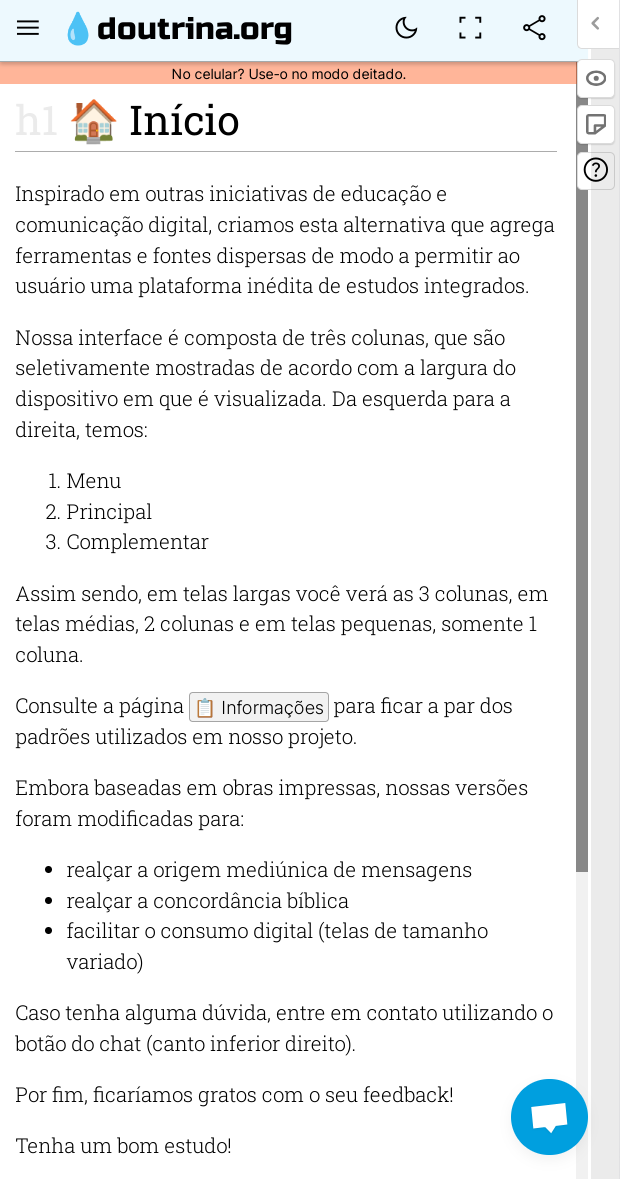
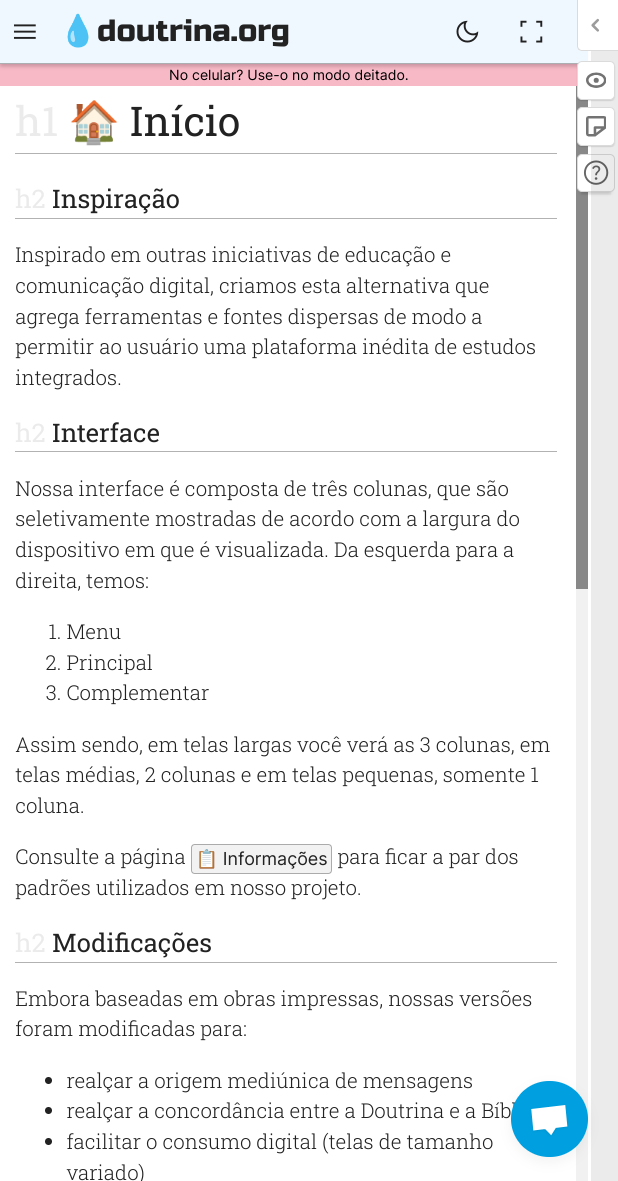
pwa mobile

Changed region(s): [[0.0, 0.1527, 0.8916, 1.0], [0.0, 0.0, 1.0, 0.7634], [0.8916, 0.916, 0.9531, 0.9771]]

diff --git a/framework/css/optimized-v1.css b/framework/css/optimized-v1.css
@@ -760,8 +760,8 @@ button {
 }
 
 div#alert {
-    background-color: #dc143c80;
-    color: currentColor;
+    background-color: #f8b9c6;
+    color: #000;
     font: 11px 'Inter';
     left: 0;
     padding: 2px;
